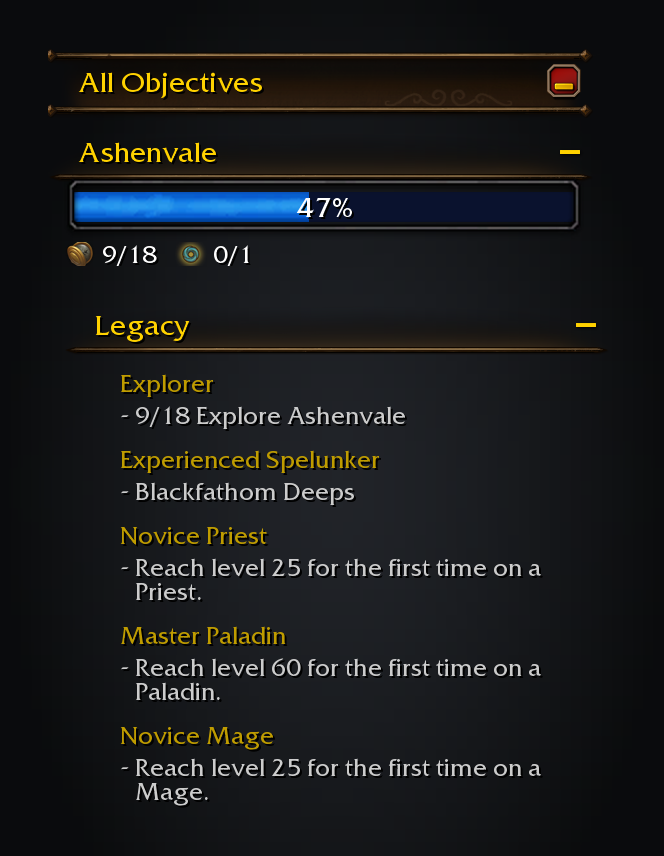
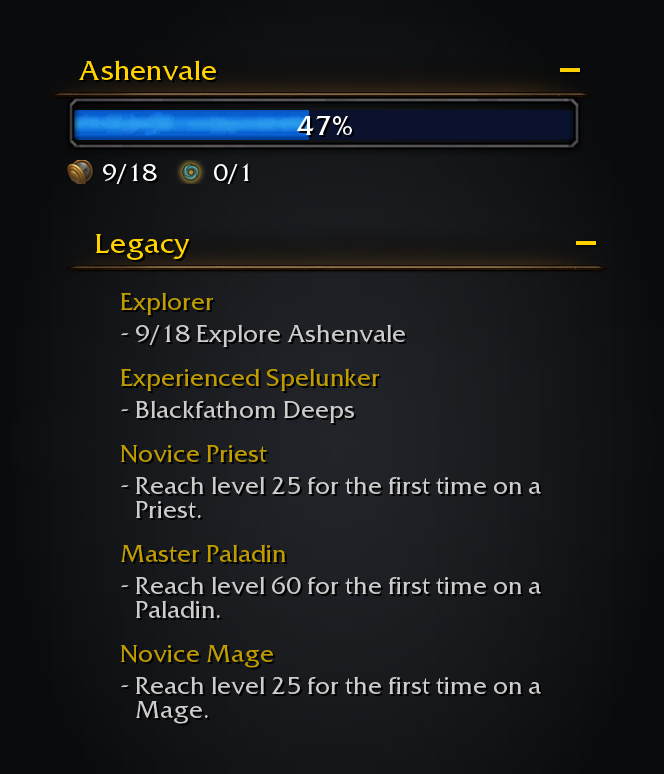
docs(screenshots): the tracker image shows the Forever column on its own
The column is a frame of its own beside the game's quest tracker
(forever-core#797), so the game's All Objectives header no longer sits
over it.

Refs cjber/forever-core#800

Claude-Session: https://claude.ai/code/session_01KXatHKKbTYVB3h2Hz5uwPg

diff --git a/tools/screenshots.py b/tools/screenshots.py
@@ -861,9 +861,8 @@ def render_continent(ui, data, live):
 
 
 def render_tracker(ui, data, live):
-    """The shared column as the host lays it out: the game's All Objectives header, then Ashenvale's
-    completion and the tracked challenges. The quests below are the native frame's own and are not part
-    of this crop."""
+    """The shared Forever column as the host lays it out: Ashenvale's completion, then the tracked challenges.
+    The column is a frame of its own beside the game's quest tracker, so no All Objectives header sits over it."""
     result = live.model.completion[ASHENVALE]
     legacy = []
     for block in live.model.tracked:
@@ -873,7 +872,7 @@ def render_tracker(ui, data, live):
         legacy.append(TrackerBlock(live.name(block["challenge"]), shown))
     # The zone section's header on a canvas of its own: the tracker's own bar and the counts sit in the row
     # UI/Completion.lua reserves below the header, so the tracked challenges start after that row.
-    canvas, rects = objective_tracker(ui, [TrackerModule("Ashenvale", [])], container=True)
+    canvas, rects = objective_tracker(ui, [TrackerModule("Ashenvale", [])], container=False)
     hx, hy, hw, hh = rects["modules"][0]
     line_font, percent_font = FONTS["ObjectiveTrackerLineFont"], FONTS["GameFontHighlightMedium"]
     # The bar canvas starts at the caps' overhang and centres the percent on the 15-unit fill.
